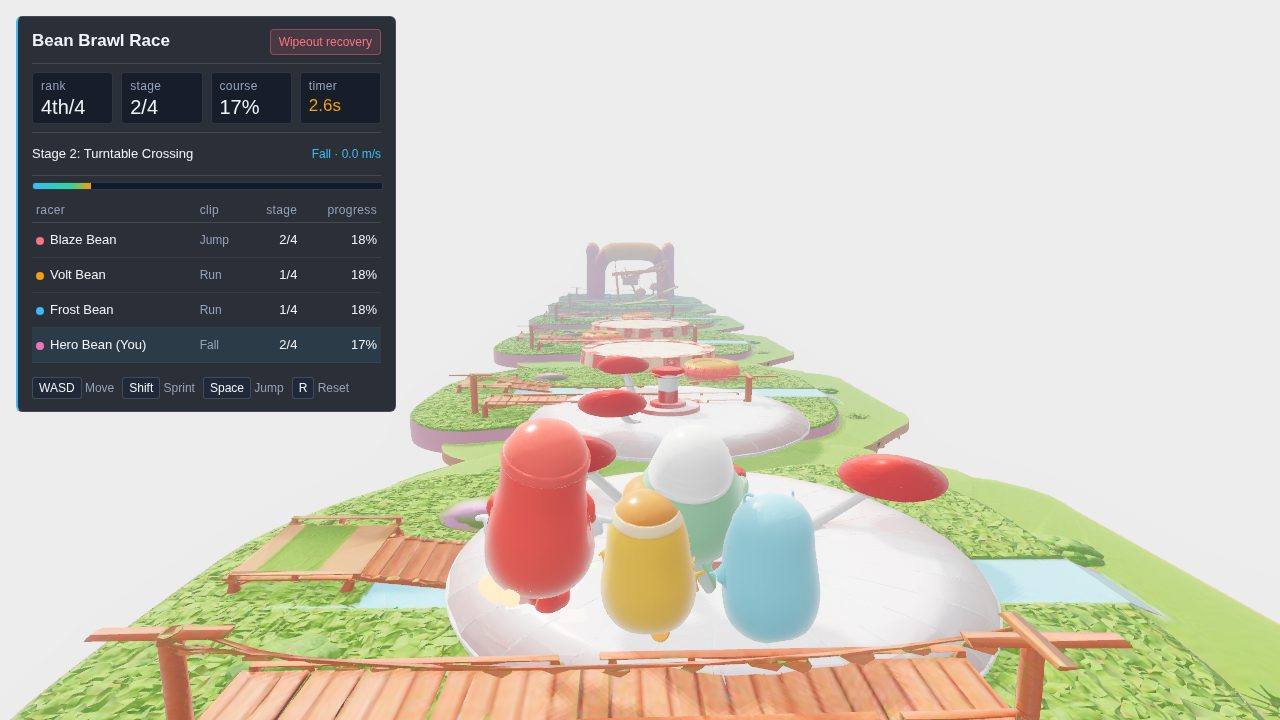
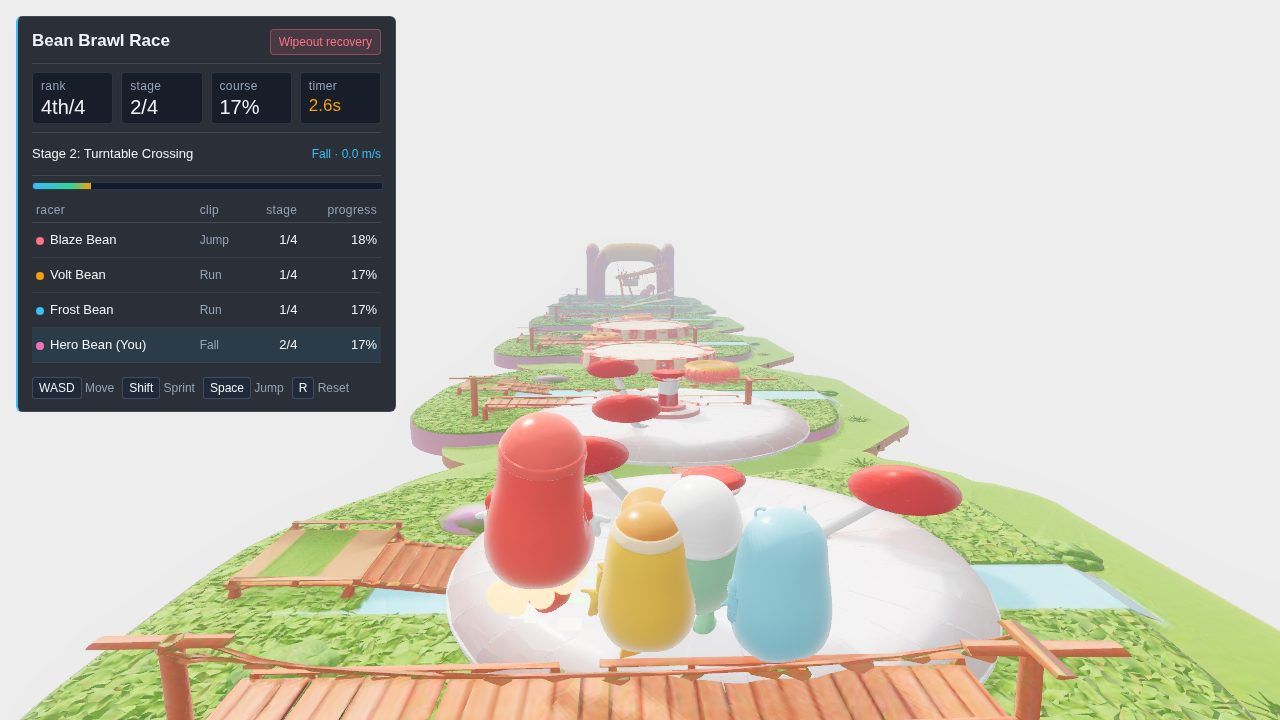
evidence: remote frame check of the softened cabinet and yellow bean with a control build (Bank Shot canvas is black in staged capture for both)

Changed region(s): [[0.0, 0.3667, 1.0, 1.0]]

diff --git a/tests/browser/likeness-soften-frames.spec.ts b/tests/browser/likeness-soften-frames.spec.ts
@@ -26,10 +26,14 @@ function serve(dist: string): Promise<{ origin: string; close(): Promise<void> }
   }));
 }
 
-const GAMES: Array<{ slug: string; query: string; glbs: string[]; required: boolean }> = [
-  { slug: "bean-brawl-race", query: "?autostart=1", glbs: ["yellowBean"], required: true },
-  { slug: "bank-shot", query: "?autostart=1", glbs: ["billiardsTrophyCabinetMeshy"], required: false }
+const ALL: Array<{ slug: string; query: string; glbs: string[]; required: boolean; ready: string }> = [
+  { slug: "bean-brawl-race", query: "?autostart=1", glbs: ["yellowBean"], required: true, ready: "__AURA3D_GAME__" },
+  { slug: "bank-shot", query: "?autostart=1", glbs: ["billiardsTrophyCabinetMeshy"], required: false, ready: "__BANK_SHOT_EVIDENCE__" },
+  // control: the same app built from unchanged main with the original (photographic) cabinet, to tell a regression from a staging limit
+  { slug: "bank-shot-ctl", query: "?autostart=1", glbs: ["billiardsTrophyCabinetMeshy"], required: false, ready: "__BANK_SHOT_EVIDENCE__" }
 ];
+const ONLY = (process.env.SOFTEN_GAMES ?? "").split(",").filter(Boolean);
+const GAMES = ALL.filter((g) => ONLY.length === 0 || ONLY.includes(g.slug));
 
 test.setTimeout(600_000);
 
@@ -43,7 +47,7 @@ for (const game of GAMES) {
     page.on("response", (r) => { if (r.url().endsWith(".glb")) glbRequests.push({ url: r.url().replace(origin, ""), status: r.status() }); });
     await page.setViewportSize({ width: 1280, height: 720 });
     await page.goto(`${origin}/${game.query}`, { waitUntil: "load", timeout: 120_000 });
-    await page.waitForFunction(() => (window as unknown as { __AURA3D_GAME__?: unknown }).__AURA3D_GAME__ !== undefined, undefined, { timeout: 300_000 }).catch(() => undefined);
+    await page.waitForFunction((key) => (window as unknown as Record<string, unknown>)[key] !== undefined, game.ready, { timeout: 300_000 }).catch(() => undefined);
     await page.waitForTimeout(15_000);
     for (const [i, wait] of [0, 12_000].entries()) {
       if (wait) await page.waitForTimeout(wait);

diff --git a/evidence/likeness-soften/README.md b/evidence/likeness-soften/README.md
@@ -1,0 +1,8 @@
+# Softened trophy cabinet, rooftop face scans, yellow bean (2026-10-24)
+
+Software WebGL2 on the remote runner (`tools/remote-acr/run.sh`, runs `billlik-1`, `billlik-4`), not real-GPU evidence. Spec: `tests/browser/likeness-soften-frames.spec.ts` (staged builds of the apps, assets served from a local static server).
+
+- **Bean Brawl Race (`yellowBean`)**: the new `yellowBean.c594a8de.glb` loads (HTTP 200), 0 console errors. `bean-brawl-race-1.jpg` shows the yellow bean without the red cheeks (the Pikachu-like face is gone; the smile and eyes remain).
+- **Bank Shot (`billiardsTrophyCabinetMeshy`)**: the softened `billiardsTrophyCabinetMeshy.f0e4f16a.glb` loads (HTTP 200), 0 console errors. The 3D canvas is **black in this staged capture, and it is equally black for a control build of the same app from unchanged `main` with the original cabinet** (`bank-shot-ctl`: mean luma 2.5 and non-dark fraction 0.088 for both). So the blackness comes from this capture method (staged assets), not from the cabinet change, and **the cabinet itself was not seen rendering**. Bank Shot's own `bank-shot-shot-visual.spec.ts` could not be used remotely: its dev-server page returned "Not found" in the runner.
+- **Rooftop athletes**: served from `/aura-assets/` but used by no app; checked by unit test only (`tests/unit/likeness-audit/photo-textures.test.ts`).
+- Texture-level proof: `tests/unit/likeness-audit/soft-cabinet.test.ts`, `photo-textures.test.ts` and `yellow-bean.test.ts` (content bound, manifest hashes, removed originals).
